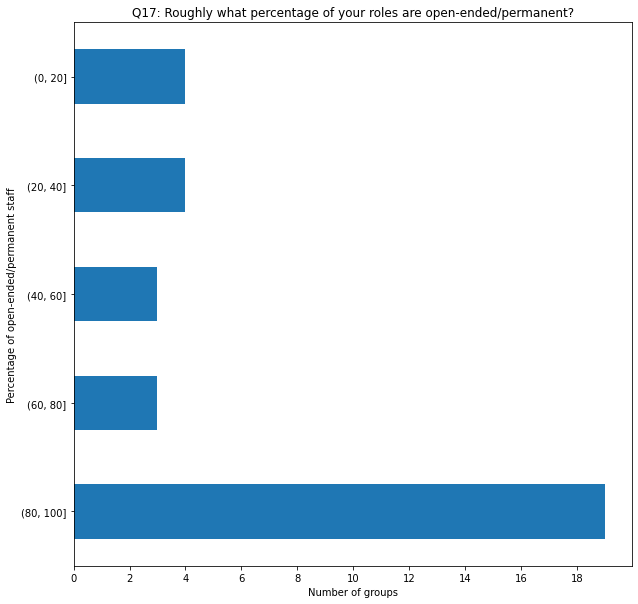
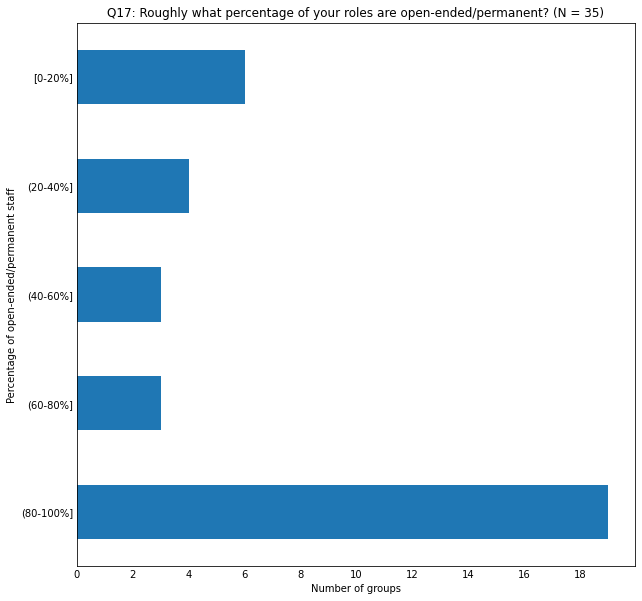
Document preprocessing of Q17 and make plot prettier

Changed region(s): [[0.0, 0.0, 1.0, 0.9884]]

diff --git a/notebooks/report.md b/notebooks/report.md
@@ -201,6 +201,48 @@
 ## Q17: Roughly what percentage of your roles are open-ended/permanent?
 
     Q17: Roughly what percentage of your roles are open-ended/permanent?
+    Preprocessing prior to number conversion
+    - dropped empty values
+    - replace All with 100%
+    - replace 50/50 with 50%
+    - replace values with the first number found in string
+                         q17 q17_binned
+    Timestamp                          
+    12/12/2022 10:32:07   75   (60-80%]
+    12/12/2022 10:42:05   80   (60-80%]
+    12/12/2022 11:04:31    0    [0-20%]
+    12/12/2022 11:05:56  100  (80-100%]
+    12/12/2022 12:55:10  100  (80-100%]
+    12/12/2022 13:23:06  100  (80-100%]
+    12/12/2022 14:40:00   50   (40-60%]
+    12/12/2022 14:41:26  100  (80-100%]
+    12/12/2022 15:30:58  100  (80-100%]
+    12/12/2022 21:30:13   70   (60-80%]
+    14/12/2022 10:57:02   50   (40-60%]
+    16/12/2022 10:23:50  100  (80-100%]
+    03/01/2023 09:23:38  100  (80-100%]
+    06/01/2023 12:59:16  100  (80-100%]
+    06/01/2023 13:01:37   25   (20-40%]
+    06/01/2023 13:09:05   20    [0-20%]
+    06/01/2023 14:43:18   50   (40-60%]
+    06/01/2023 16:43:32  100  (80-100%]
+    09/01/2023 08:35:40  100  (80-100%]
+    09/01/2023 14:17:17   30   (20-40%]
+    09/01/2023 20:42:27   86  (80-100%]
+    10/01/2023 09:27:32  100  (80-100%]
+    10/01/2023 09:27:57  100  (80-100%]
+    10/01/2023 10:10:15   20    [0-20%]
+    10/01/2023 11:17:33    8    [0-20%]
+    10/01/2023 11:48:09  100  (80-100%]
+    11/01/2023 16:41:16  100  (80-100%]
+    12/01/2023 13:00:07  100  (80-100%]
+    13/01/2023 10:07:36  100  (80-100%]
+    13/01/2023 10:40:36   40   (20-40%]
+    13/01/2023 13:35:29   33   (20-40%]
+    13/01/2023 18:58:20   20    [0-20%]
+    18/01/2023 11:55:23    0    [0-20%]
+    18/01/2023 14:48:02  100  (80-100%]
+    19/01/2023 16:02:14  100  (80-100%]
 
 
 
@@ -213,41 +255,69 @@
 
     Q18: Does your Group have a cost recovery target? If so, what is that cost recovery target?
     Timestamp
-    12/12/2022 10:32:07    No. We aim for 70%, but it is not a hard bound...
+    12/12/2022 10:32:07                                                    0
     12/12/2022 10:42:05                                                  80%
-    12/12/2022 11:04:31                                                 None
+    12/12/2022 11:04:31                                                    0
     12/12/2022 11:05:56                                             70 (TBC)
     12/12/2022 12:55:10                                                 100%
     12/12/2022 13:23:06                      70-75% against funded projects.
     12/12/2022 14:40:00                                                  90%
     12/12/2022 14:41:26                                                    0
-    12/12/2022 15:30:58              Not explicitly, but ~15% is core funded
-    12/12/2022 21:30:13                                                   No
+    12/12/2022 15:30:58                                                    0
+    12/12/2022 21:30:13                                                    0
     14/12/2022 10:57:02    0 at present. Aim for it to rise to 100% but w...
     16/12/2022 10:23:50                                                  80%
     03/01/2023 09:23:38                                       80% Not strict
-    06/01/2023 12:59:16                                                     
-    06/01/2023 13:01:37                                                     
     06/01/2023 13:09:05             Most positions are directly grant funded
-    06/01/2023 14:43:18                                                   No
-    06/01/2023 16:43:32                                                     
+    06/01/2023 14:43:18                                                    0
     09/01/2023 08:35:40    Approx. 15 FTE (100% of staff costs, less 15% ...
     09/01/2023 14:17:17                                                 100%
     09/01/2023 20:42:27                                                   40
     10/01/2023 09:27:32                                                  60%
-    10/01/2023 09:27:57    No specific target, just to recover above the ...
+    10/01/2023 09:27:57                                                    0
     10/01/2023 10:10:15    All RSEs except for the 2 core (myself and our...
     10/01/2023 11:17:33    60% target for overall cost recovery (our cost...
     10/01/2023 11:48:09    Reaching 70% within five years; excludes Head ...
-    10/01/2023 11:54:41                                                     
     11/01/2023 16:41:16                                                  80%
     12/01/2023 13:00:07                                            Yes. 100%
-    13/01/2023 10:07:36                                                 None
+    13/01/2023 10:07:36                                                    0
     13/01/2023 10:40:36                                                 100%
-    13/01/2023 13:35:29                                     No formal target
-    13/01/2023 18:58:20                                                   No
-    18/01/2023 11:55:23                                                     
+    13/01/2023 13:35:29                                                    0
+    13/01/2023 18:58:20                                                    0
     18/01/2023 14:48:02                                                 100%
     19/01/2023 16:02:14                                                  60%
+    Name: q18, dtype: object
+    Timestamp
+    12/12/2022 10:32:07      0
+    12/12/2022 10:42:05     80
+    12/12/2022 11:04:31      0
+    12/12/2022 11:05:56     70
+    12/12/2022 12:55:10    100
+    12/12/2022 13:23:06     70
+    12/12/2022 14:40:00     90
+    12/12/2022 14:41:26      0
+    12/12/2022 15:30:58      0
+    12/12/2022 21:30:13      0
+    14/12/2022 10:57:02      0
+    16/12/2022 10:23:50     80
+    03/01/2023 09:23:38     80
+    06/01/2023 13:09:05    NaN
+    06/01/2023 14:43:18      0
+    09/01/2023 08:35:40     15
+    09/01/2023 14:17:17    100
+    09/01/2023 20:42:27     40
+    10/01/2023 09:27:32     60
+    10/01/2023 09:27:57      0
+    10/01/2023 10:10:15      2
+    10/01/2023 11:17:33     60
+    10/01/2023 11:48:09     70
+    11/01/2023 16:41:16     80
+    12/01/2023 13:00:07    100
+    13/01/2023 10:07:36      0
+    13/01/2023 10:40:36    100
+    13/01/2023 13:35:29      0
+    13/01/2023 18:58:20      0
+    18/01/2023 14:48:02    100
+    19/01/2023 16:02:14     60
     Name: q18, dtype: object
 
